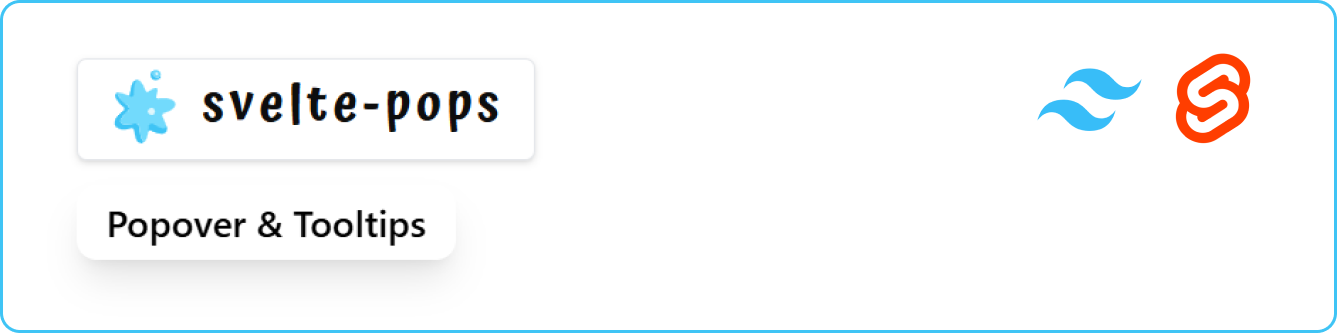
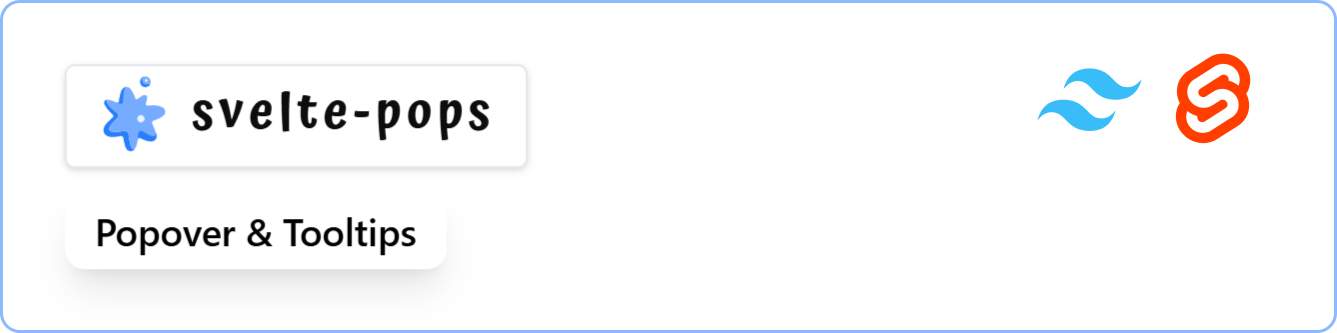
new ui

diff --git a/src/lib/Presentation/Modals/ShallowRouting.svelte b/src/lib/Presentation/Modals/ShallowRouting.svelte
@@ -14,6 +14,6 @@
 <button
 	class="flex bg-white border text-black/95 font-atma font-semibold tracking-widest text-[20px] gap-x-2 focus:outline-none"
 >
-	<img src="/my_icon.svg" width="30" alt="" class="pb-[2px]" /> svelte-pops
+	<img src="/svelte-pops-icon.svg" width="30" alt="" class="pb-[2px]" /> svelte-pops
 	<Modal class="font-semibold">Popover & Tooltips</Modal>
 </button>

diff --git a/src/routes/docs/[[title]]/Header.svelte b/src/routes/docs/[[title]]/Header.svelte
@@ -15,7 +15,7 @@
 		class="font-atma text-[25px] text-black flex gap-x-2 items-center max-[800px]:text-[18px] tracking-wider font-semibold"
 	>
 		<img
-			src="/my_icon.svg"
+			src="/svelte-pops-icon.svg"
 			width="32"
 			alt=""
 			class="size-[32px] max-[800px]:size-[28px] pb-[4px]"

diff --git a/README.md b/README.md
@@ -1,6 +1,6 @@
 ## Popovers and tooltips | Svelte 5 & Tailwindcss 4
 
-![]
+![svelte-pops image](https://svelte-pops.vercel.app/svelte-pops-header.png)
 
 Complete popover and tooltip management library with Svelte 5 & Tailwindcss 4.
 
